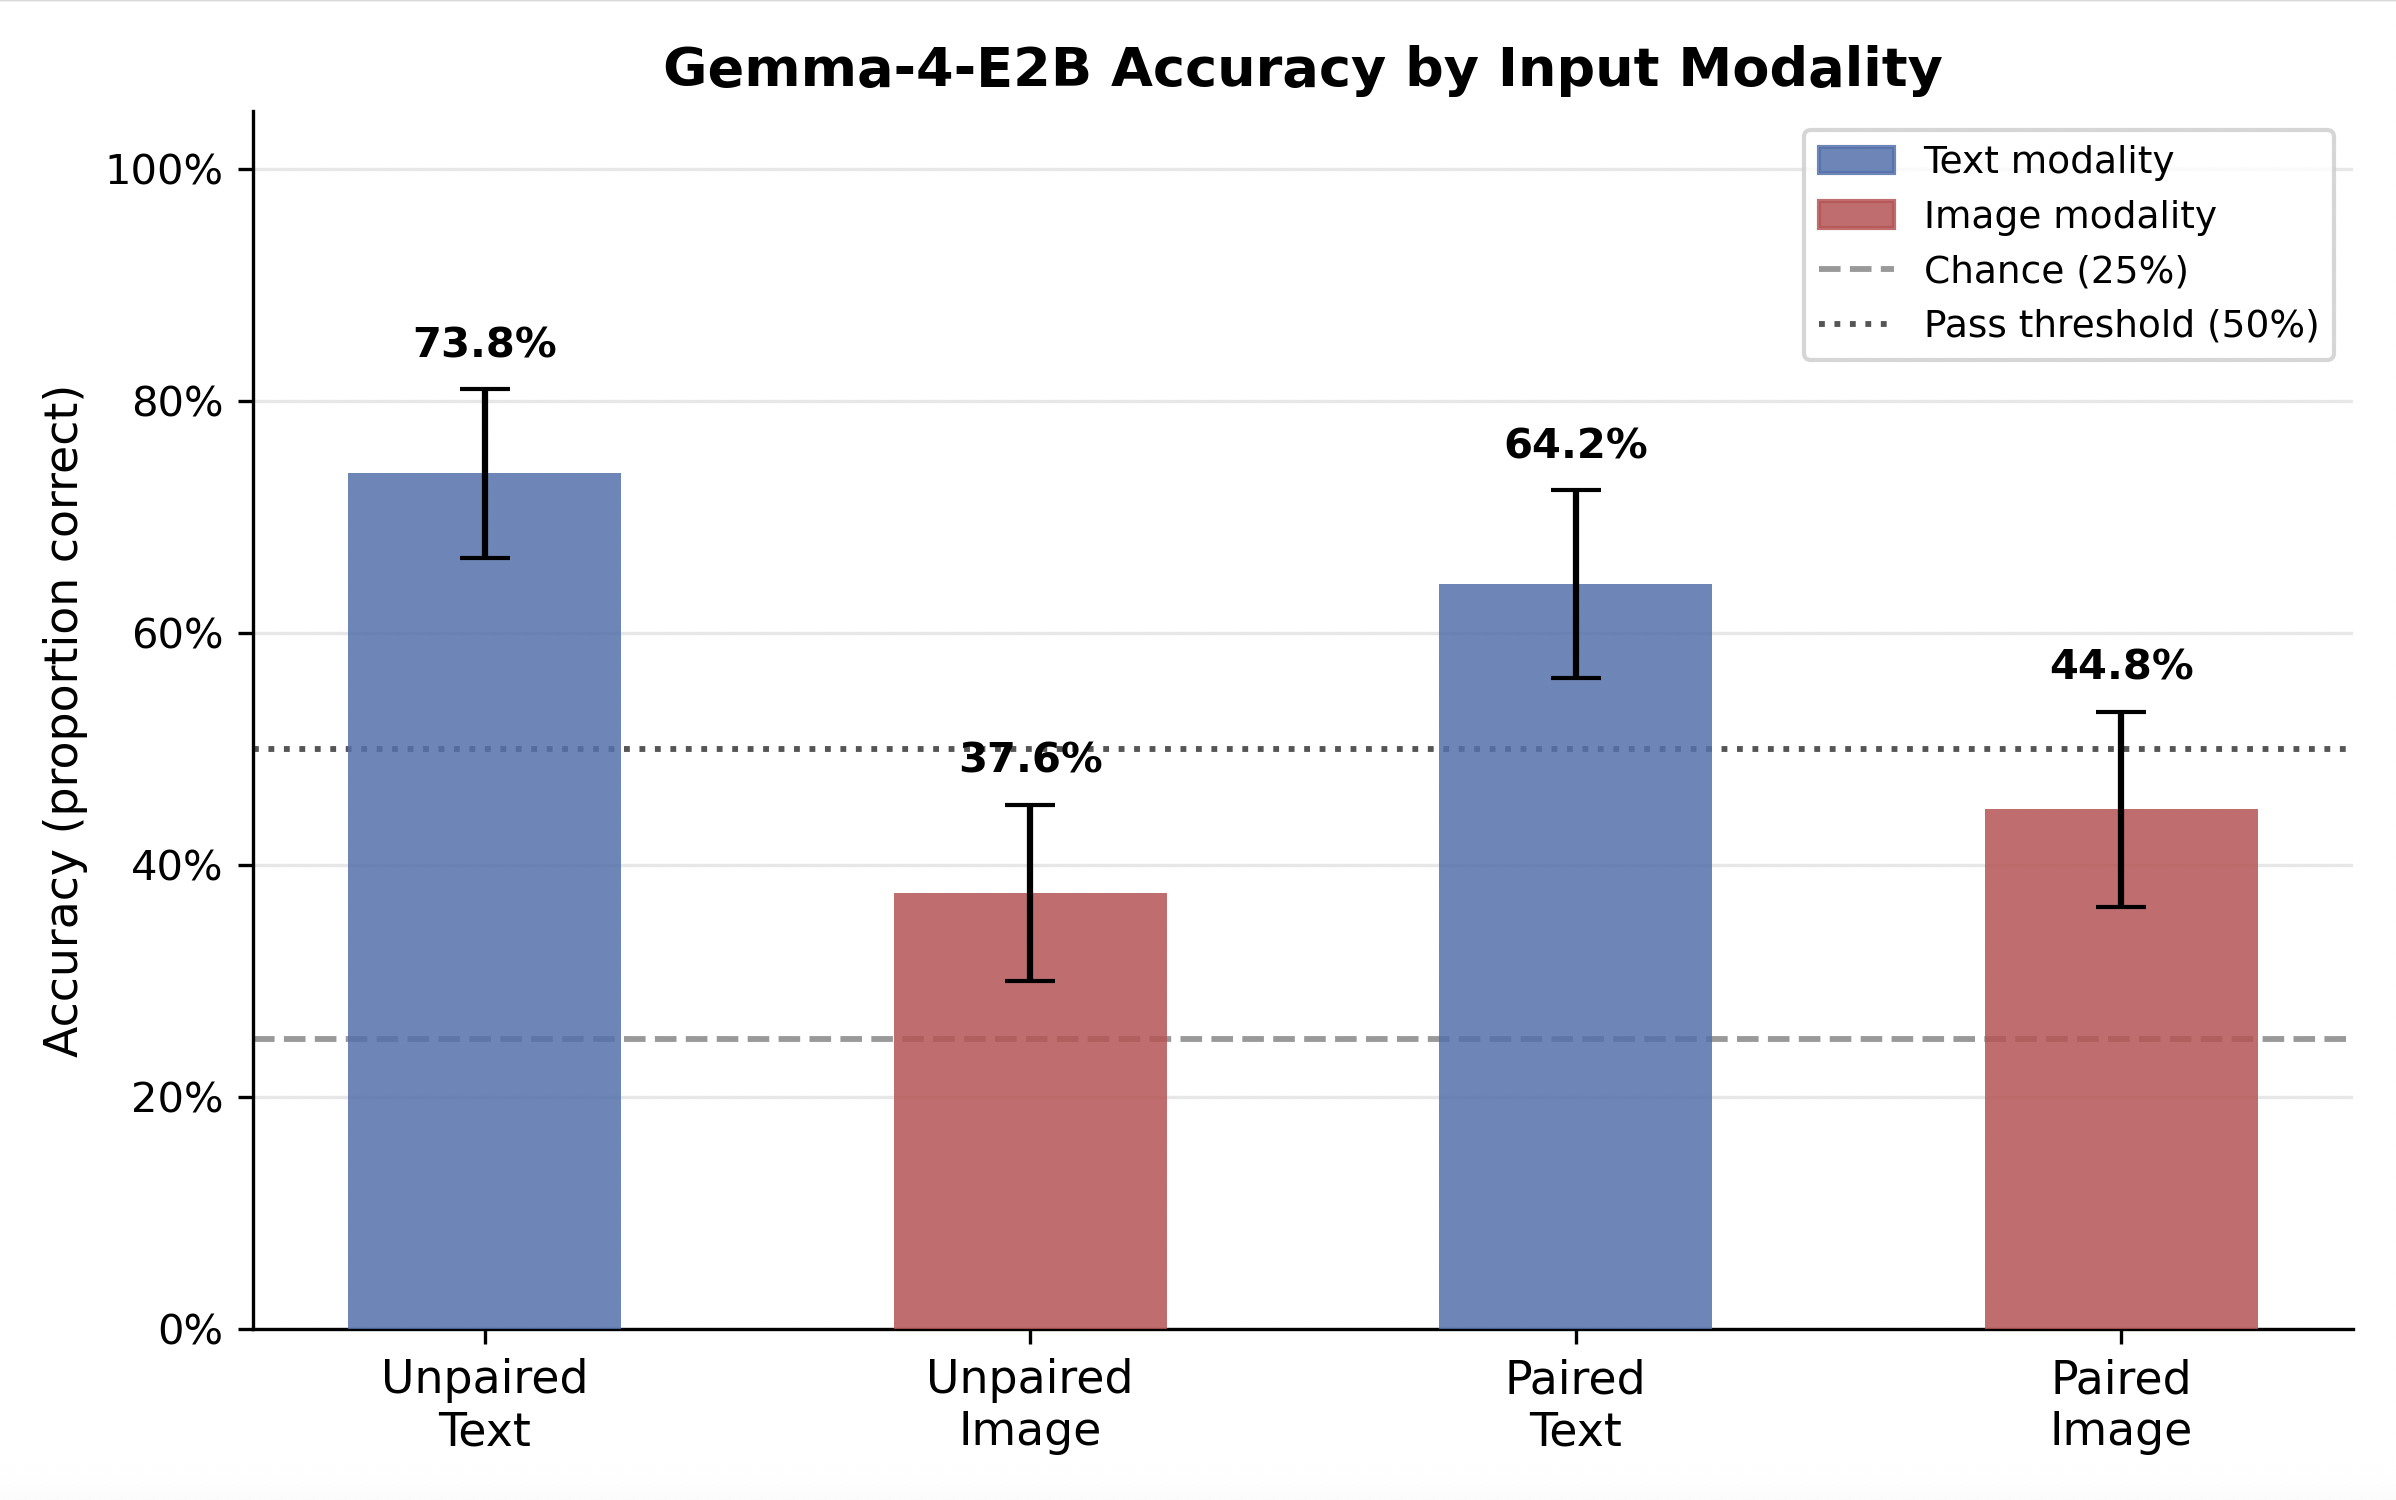
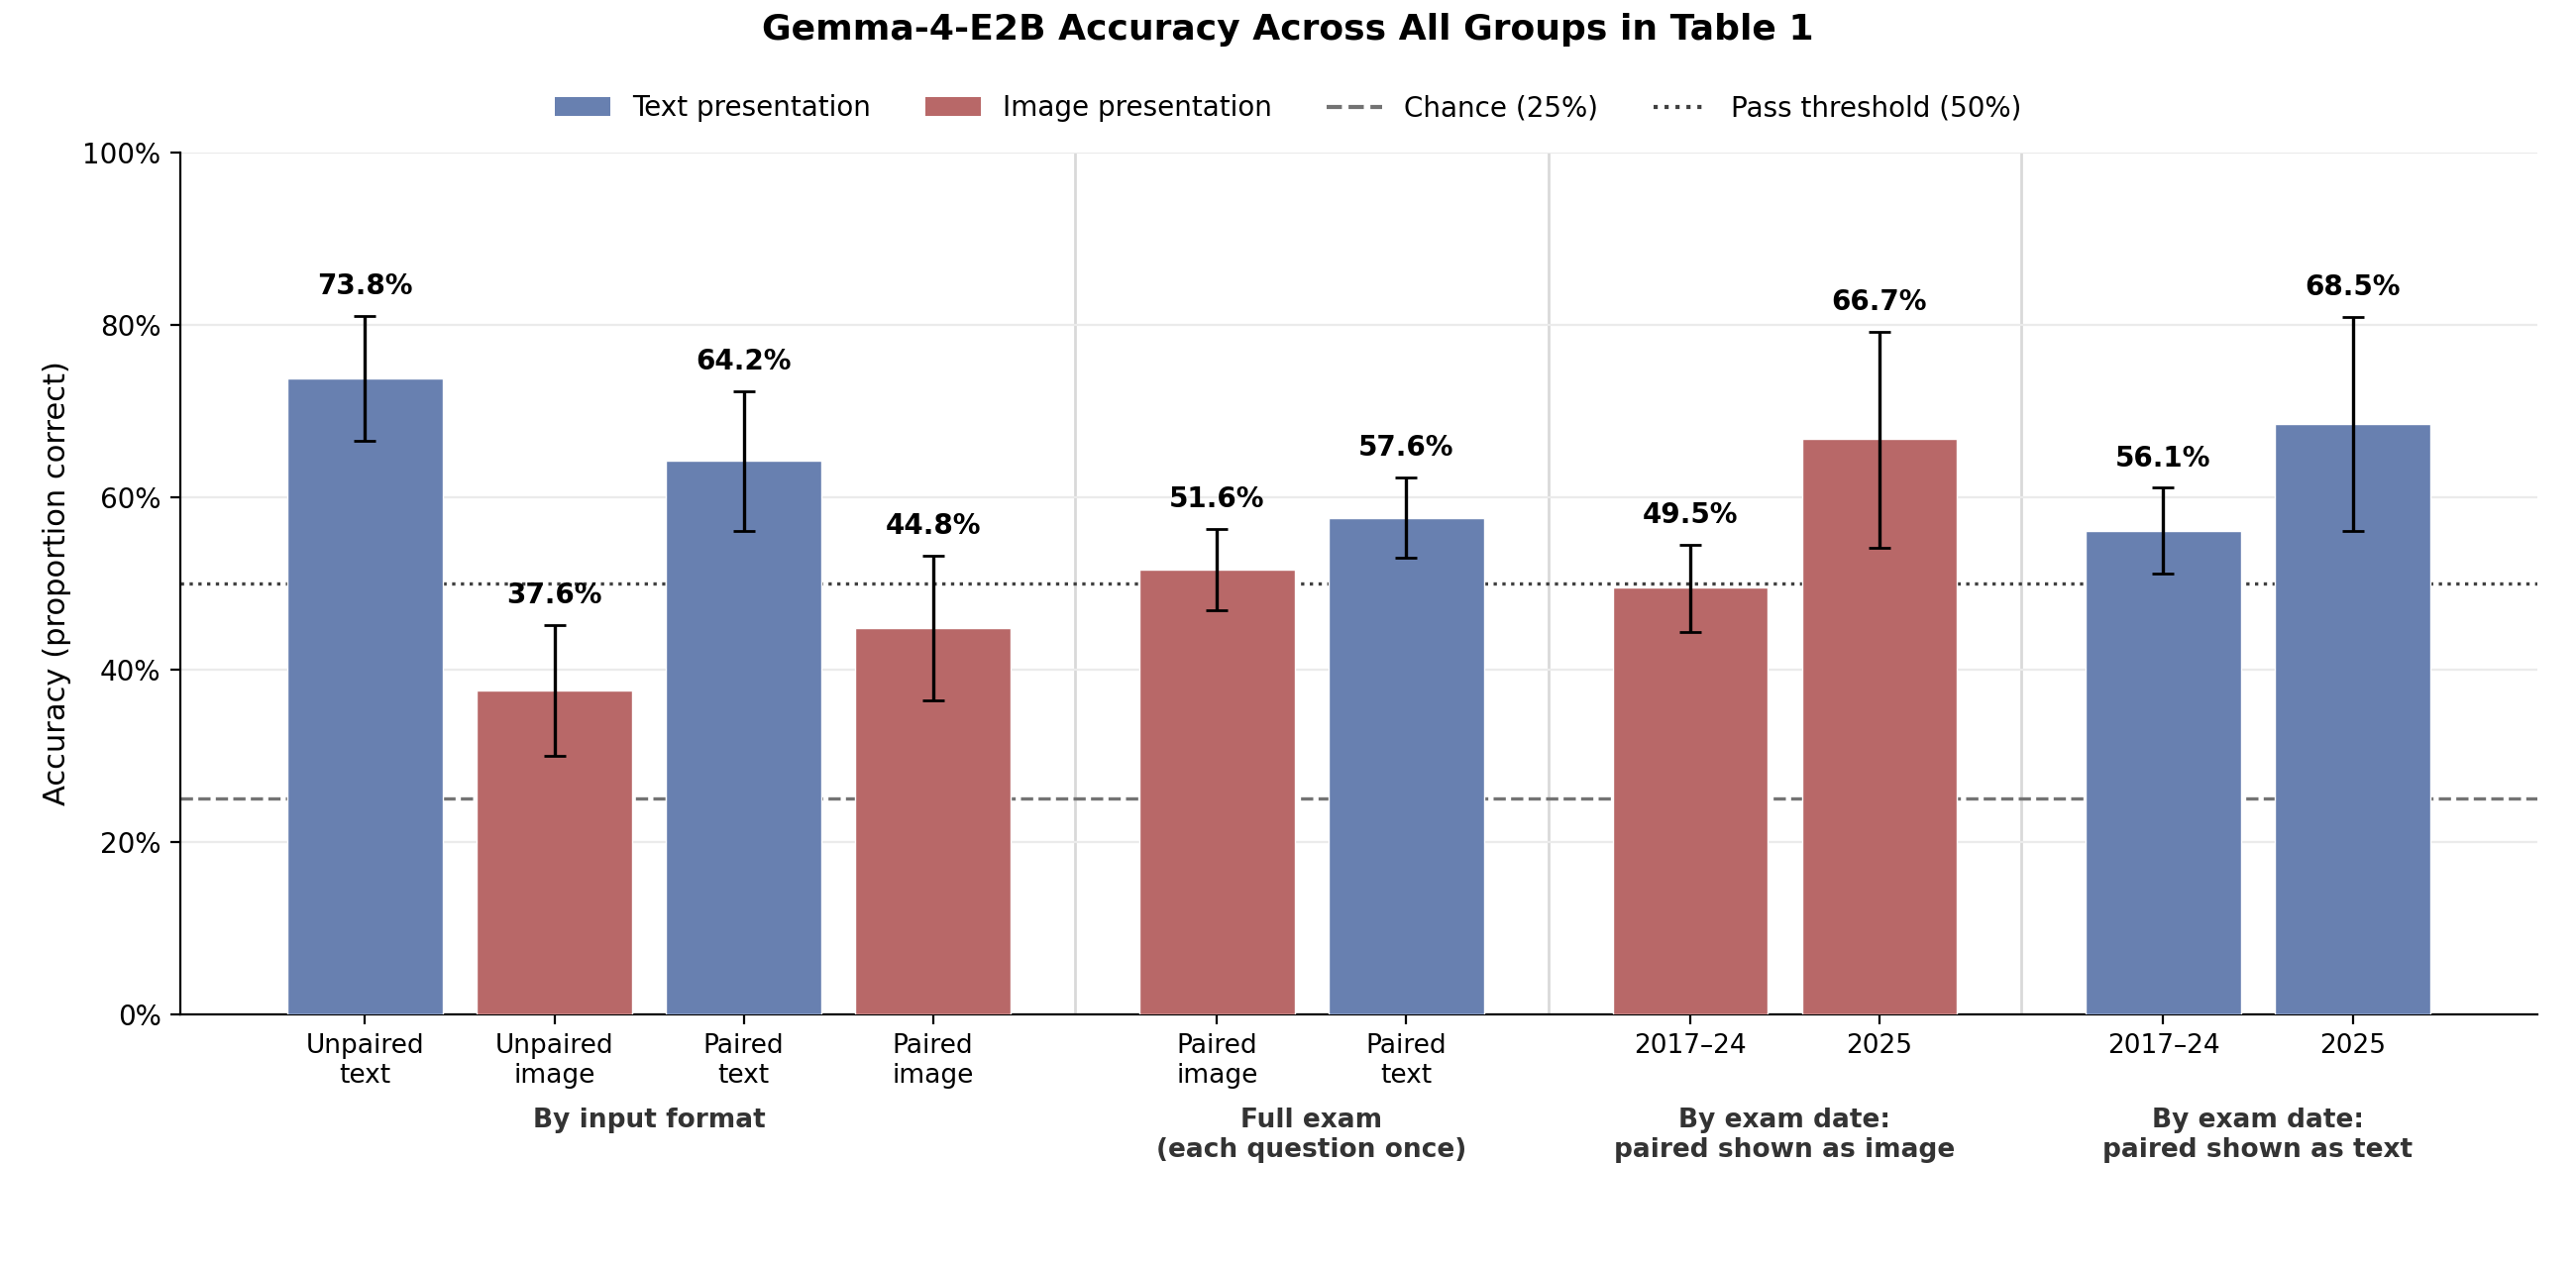
figure 1: show every accuracy from table 1

diff --git a/template.tex b/template.tex
@@ -401,11 +401,15 @@ Exams 2017--2024    & 212 & 378 & 56.1\% & [51.1,\,61.1] \\
 
 \begin{figure}[H]
     \centering
-    \includegraphics[width=0.5\linewidth]{modality.png}
-    \caption{Accuracy across the four input modalities with 95\% confidence 
-intervals. Blue bars indicate text-based modalities, red bars indicate 
-image-based modalities. The dashed line marks the 25\% chance baseline 
-and the dotted line marks the 50\% passing threshold.}
+    \includegraphics[width=\linewidth]{modality.png}
+    \caption{Accuracy for every group reported in Table~\ref{tab:accuracy-ci},
+with 95\% confidence intervals: by input format, the full-exam totals (each
+question counted once), and by exam date split at Gemma's January~2025
+knowledge cutoff. Blue bars indicate text presentation, red bars indicate
+image presentation; for the full-exam and by-date groups the colour reflects
+whether the paired questions were shown as text or as an image. The dashed line
+marks the 25\% chance baseline and the dotted line marks the 50\% passing
+threshold.}
     \label{fig:placeholder}
 \end{figure}
 